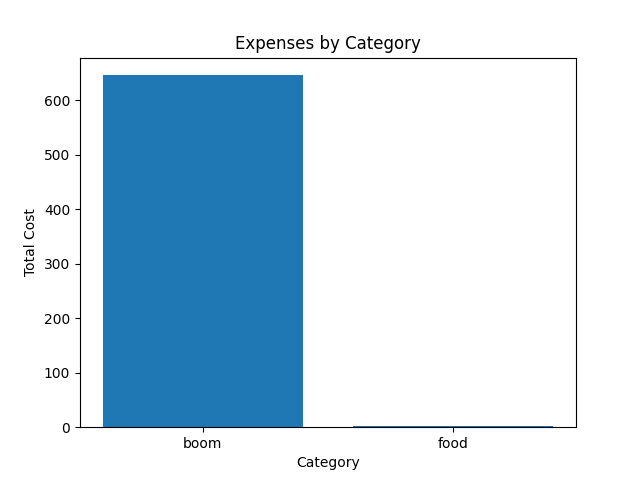
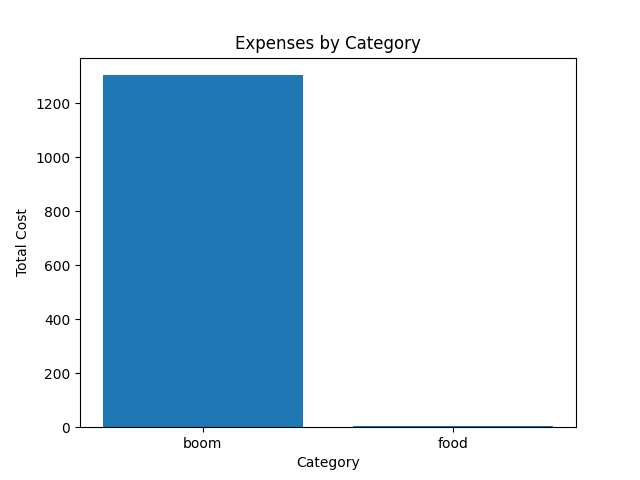
Added Pie Chart, fixed radio button form

diff --git a/BudgetWebsite/Templates/add_expense.html b/BudgetWebsite/Templates/add_expense.html
@@ -4,13 +4,23 @@
   </head>
   <body>
     <h1>Add Expense</h1>
-    <input type="radio" name="expense-income" value="expense" checked onchange="switchLabels('expense')">
+    <form method="post" action="/add_expense">
+    <input type="radio" name="type" value="expense" checked onchange="switchLabels('expense')">
     Expense
   </label>
   <label>
-    <input type="radio" name="expense-income" value="income" onchange="switchLabels('income')">
+    <input type="radio" name="type" value="income" onchange="switchLabels('income')">
     Income
   </label><br><br>
+    <label id="name-label">Name:</label>
+    <input type="text" name="name" id="name-input">
+    <!-- <br id= "name-br"><br> -->
+    <label id="cost-label">Cost:</label>
+    <input type="number" name="cost" step="0.01"><br><br>
+    <label>Date:</label>
+    <input type="date" name="date" value="{{ today }}"><br><br>
+    <label>
+    <input type="submit" value="Add Expense" id="add-expense-btn"><br><br>
         
   <label>Category:</label>
   <select name="category" onchange="showOtherOption(this)">
@@ -19,6 +29,7 @@
     {% endfor %}
     <option value="other">Other</option>
   </select>
+  </form>
   <input type="text" name="other_category" id="other-category" style="display: none;">
   <script>
   function showOtherOption(select) {
@@ -49,16 +60,6 @@
     // nameBr.style.display = 'inline';
   }
 }
-  </script><br><br>
-    <form method="post" action="/add_expense">
-      <label id="name-label">Name:</label>
-      <input type="text" name="name" id="name-input">
-      <!-- <br id= "name-br"><br> -->
-      <label id="cost-label">Cost:</label>
-      <input type="number" name="cost" step="0.01"><br><br>
-      <label>Date:</label>
-      <input type="date" name="date" value="{{ today }}"><br><br>
-      <label>
-      <input type="submit" value="Add Expense" id="add-expense-btn">
-    </form>
+  </script>
+
 </html>

diff --git a/BudgetWebsite/Templates/display_data.html b/BudgetWebsite/Templates/display_data.html
@@ -1,5 +1,6 @@
 <h1>Display Data</h1>
 <img src="{{ chart_file }}" alt="Expenses by Category">
+<img src="{{ pieChartFile }}" alt="Savings">
 </body>
 
 <h1>All Expenses</h1>
@@ -14,8 +15,8 @@
     <tr>
       <td>{{ expense.name }}</td>
       <td>{{ expense.cost }}</td>
-      <td>{{ expense.date.strftime('%m-%d-%Y') }}</td>
       <td>{{ expense.category }}</td>
+      <td>{{ expense.date.strftime('%m-%d-%Y') }}</td>
     </tr>
   {% endfor %}
 </table>

diff --git a/BudgetWebsite/main.py b/BudgetWebsite/main.py
@@ -22,9 +22,9 @@ class Income(db.Model):
     value = db.Column(db.Float, nullable=False)
     date = db.Column(db.Date, nullable=False)
 
-@app.route('/add_expense', methods=['POST'])
+@app.route('/add_expense', methods=['GET', 'POST'])
 def add_expense():
-    type = request.form.get('expense-income')
+    type = request.form['type']
     name = request.form['name']
     cost = request.form['cost']
     category = request.form.get('category')
@@ -40,16 +40,14 @@ def add_expense():
     if category == 'other':
         category = other_category
 
-    category = "boom"
+    # category = "boom"
 
     if type == 'income':
         income = Income(source=category, value=cost, date=date_obj)
         db.session.add(income)
-        print(income.value)
     else:
         expense = Expense(name=name, cost=cost, category=category, date=date_obj)
         db.session.add(expense)
-        print(expense.cost)
 
     db.session.commit()
     
@@ -59,11 +57,18 @@ def add_expense():
 
 @app.route('/display')
 def display():
-    # get expenses with the selected category
-    selected_category = request.form.get('category')
-    
-    expenses = Expense.query.filter_by(category=selected_category).all()
-    total = sum(expense.cost for expense in expenses)
+    expenses = sum(expense.cost for expense in Expense.query.all()) 
+    income = sum(income.value for income in Income.query.all()) 
+
+    savings = abs(income - expenses)
+    sizes = [savings, expenses]
+    labels = ["Savings", "Expenses"]
+    fig, ax = plt.subplots()
+    ax.pie(sizes, labels=labels, autopct=lambda p: '{:.0f}%'.format(p * income / 100))
+
+    # Save the pie chart to a PNG file
+    pieChartFile = 'static/pieChart.png'
+    plt.savefig(pieChartFile)
 
     # Get the list of categories from the database
     categories = list(set(expense.category for expense in Expense.query.all()))
@@ -98,7 +103,7 @@ def display():
 
     expenses = Expense.query.order_by(Expense.date.desc()).all()
     incomes = Income.query.order_by(Income.date.desc()).all()
-    return render_template('display_data.html',chart_file=chart_file, expenses=expenses, incomes=incomes)
+    return render_template('display_data.html',chart_file=chart_file, pieChartFile=pieChartFile, expenses=expenses, incomes=incomes)
 
 
 
